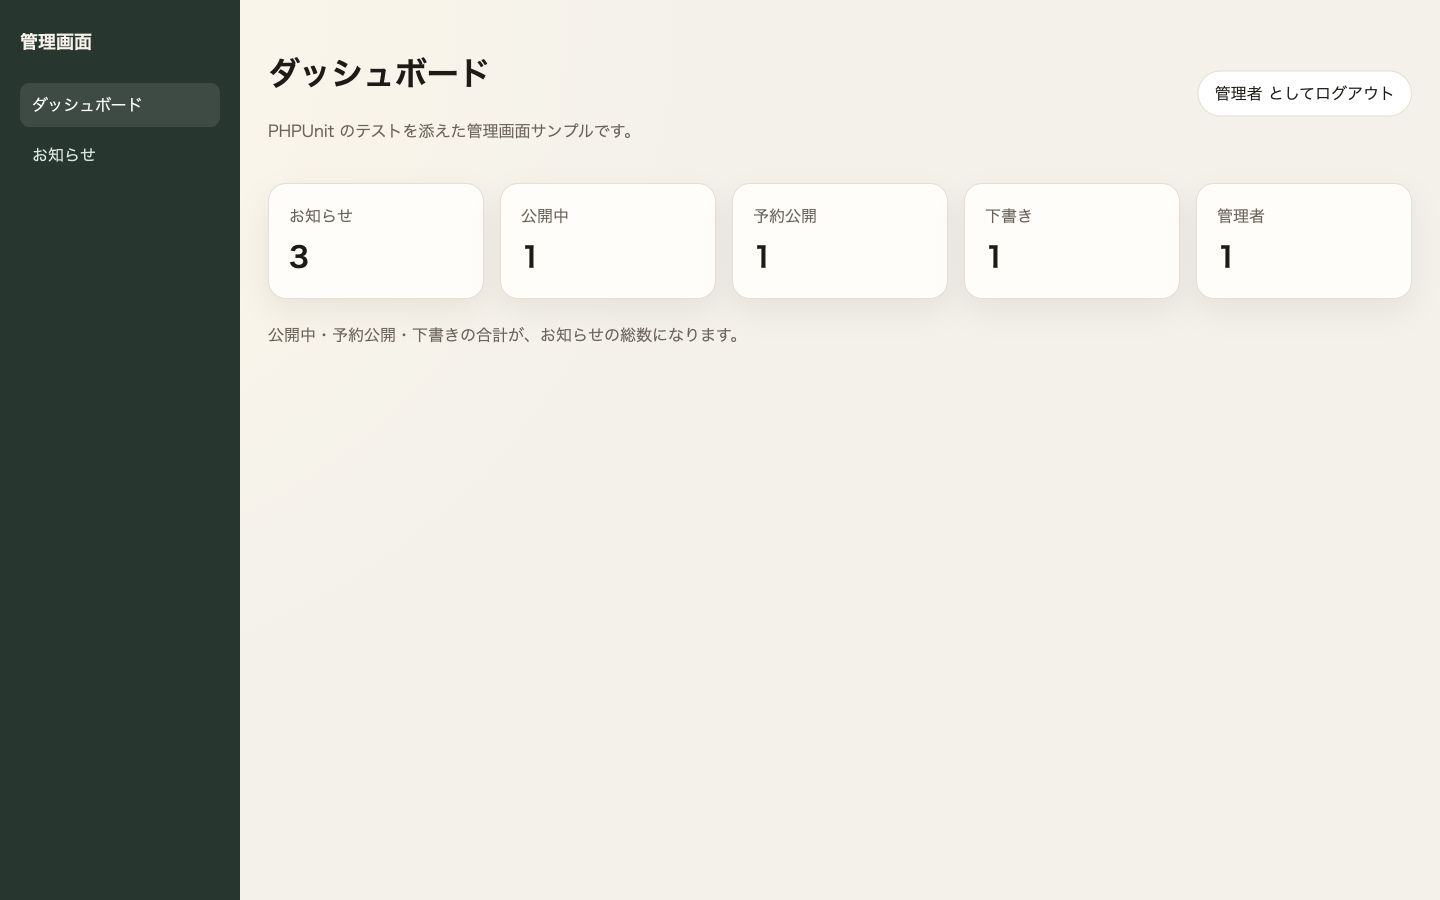
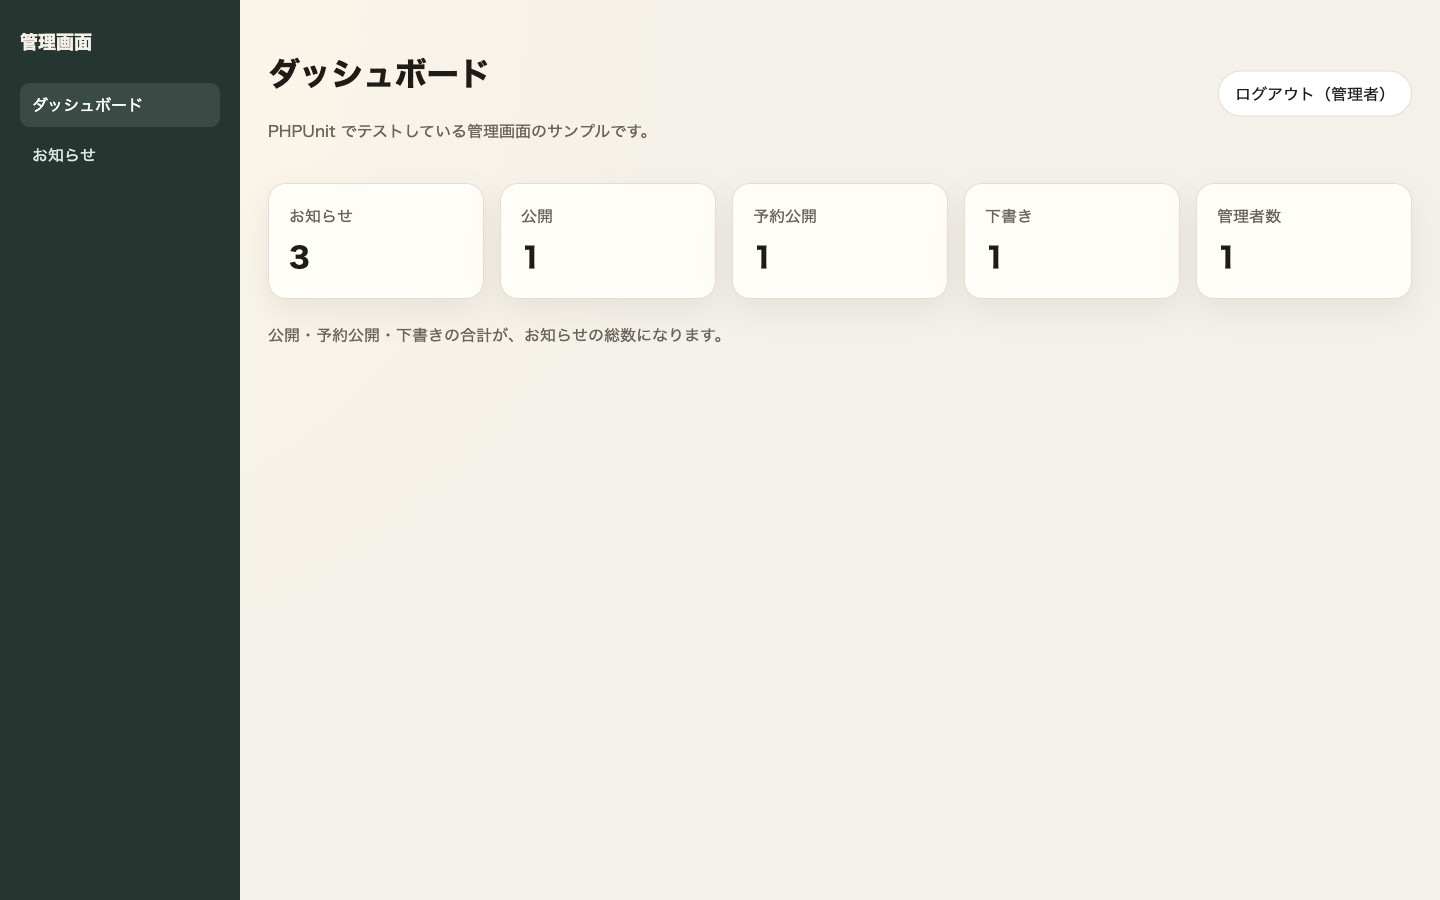
画面と README の日本語表現を見直す (#42)
- ログアウトのボタンを「ログアウト（名前）」にする
- 状態の呼び名を「公開」に統一し、ダッシュボードの「管理者」を「管理者数」にする
- 副題とシードの本文を「PHPUnit でテストしている管理画面のサンプルです。」にする
- README の表現（フィルター・ページ送りなど）を揃え、テスト数を更新する
- 管理画面のスクリーンショットを撮り直す

Closes #41

diff --git a/tests/Feature/DashboardTest.php b/tests/Feature/DashboardTest.php
@@ -11,6 +11,16 @@ class DashboardTest extends TestCase
 {
     use RefreshDatabase;
 
+    public function test_admin_layout_shows_who_is_logged_in_on_the_logout_button(): void
+    {
+        $admin = User::factory()->admin()->create(['name' => '山田 花子']);
+
+        $this->actingAs($admin)
+            ->get(route('admin.dashboard'))
+            ->assertOk()
+            ->assertSee('ログアウト（山田 花子）');
+    }
+
     public function test_admin_can_view_dashboard_counts(): void
     {
         $admin = User::factory()->admin()->create();
@@ -30,10 +40,10 @@ class DashboardTest extends TestCase
             ->assertViewHas('adminCount', 1)
             ->assertSeeInOrder([
                 'お知らせ', '<strong>4</strong>',
-                '公開中', '<strong>1</strong>',
+                '公開', '<strong>1</strong>',
                 '予約公開', '<strong>1</strong>',
                 '下書き', '<strong>2</strong>',
-                '管理者', '<strong>1</strong>',
+                '管理者数', '<strong>1</strong>',
             ], escape: false);
     }
 
@@ -52,7 +62,7 @@ class DashboardTest extends TestCase
             ->assertViewHas('draftCount', 0)
             ->assertSeeInOrder([
                 'お知らせ', '<strong>1</strong>',
-                '公開中', '<strong>1</strong>',
+                '公開', '<strong>1</strong>',
                 '予約公開', '<strong>0</strong>',
                 '下書き', '<strong>0</strong>',
             ], escape: false);

diff --git a/resources/views/admin/dashboard.blade.php b/resources/views/admin/dashboard.blade.php
@@ -9,7 +9,7 @@
             <strong>{{ $noticeCount }}</strong>
         </section>
         <section class="panel stat">
-            <span class="muted">公開中</span>
+            <span class="muted">公開</span>
             <strong>{{ $publishedCount }}</strong>
         </section>
         <section class="panel stat">
@@ -21,10 +21,10 @@
             <strong>{{ $draftCount }}</strong>
         </section>
         <section class="panel stat">
-            <span class="muted">管理者</span>
+            <span class="muted">管理者数</span>
             <strong>{{ $adminCount }}</strong>
         </section>
     </div>
 
-    <p class="muted">公開中・予約公開・下書きの合計が、お知らせの総数になります。</p>
+    <p class="muted">公開・予約公開・下書きの合計が、お知らせの総数になります。</p>
 @endsection

diff --git a/resources/views/layouts/admin.blade.php b/resources/views/layouts/admin.blade.php
@@ -19,11 +19,11 @@
         <div class="topbar">
             <div>
                 <h1>@yield('title', '管理画面')</h1>
-                <p class="muted">PHPUnit のテストを添えた管理画面サンプルです。</p>
+                <p class="muted">PHPUnit でテストしている管理画面のサンプルです。</p>
             </div>
             <form method="POST" action="{{ route('logout') }}">
                 @csrf
-                <button class="btn secondary" type="submit">{{ auth()->user()->name }} としてログアウト</button>
+                <button class="btn secondary" type="submit">ログアウト（{{ auth()->user()->name }}）</button>
             </form>
         </div>
         @if (session('status'))

diff --git a/tests/Feature/PublicNoticeTest.php b/tests/Feature/PublicNoticeTest.php
@@ -191,13 +191,13 @@ class PublicNoticeTest extends TestCase
             ->assertOk()
             ->assertDontSee('管理画面')
             ->assertDontSee('ダッシュボード')
-            ->assertDontSee('としてログアウト');
+            ->assertDontSee('ログアウト（');
 
         $this->get(route('notices.show', $notice))
             ->assertOk()
             ->assertDontSee('管理画面')
             ->assertDontSee('ダッシュボード')
-            ->assertDontSee('としてログアウト');
+            ->assertDontSee('ログアウト（');
     }
 
     public function test_logged_in_admin_can_also_view_the_public_pages(): void

diff --git a/database/seeders/DatabaseSeeder.php b/database/seeders/DatabaseSeeder.php
@@ -28,7 +28,7 @@ class DatabaseSeeder extends Seeder
 
         Notice::factory()->for($admin)->create([
             'title' => '管理画面の使い方',
-            'body' => 'ログイン後、お知らせの作成・編集・削除ができます。PHPUnit のテストを添えた管理画面サンプルです。',
+            'body' => 'ログイン後、お知らせの作成・編集・削除ができます。PHPUnit でテストしている管理画面のサンプルです。',
             'published_at' => now(),
         ]);
 

diff --git a/tests/Feature/NoticeSearchTest.php b/tests/Feature/NoticeSearchTest.php
@@ -497,7 +497,7 @@ class NoticeSearchTest extends TestCase
             ->assertOk()
             ->assertDontSee('管理画面')
             ->assertDontSee('ダッシュボード')
-            ->assertDontSee('としてログアウト')
+            ->assertDontSee('ログアウト（')
             // 公開側に下書き・予約公開という語を出さない（状態のセレクトは置かない）
             ->assertDontSee('下書き')
             ->assertDontSee('予約公開');

diff --git a/docs/testing.md b/docs/testing.md
@@ -55,7 +55,7 @@ php artisan test --filter=test_admin_can_create_a_published_notice
 | `NoticeManagementTest.php` | CRUD、予約公開、検証、作成者記録 |
 | `NoticeTrashTest.php` | ゴミ箱、復元、完全削除、権限 |
 | `NoticeAuthorizationTest.php` | 各操作がPolicyを通ること |
-| `NoticeSearchTest.php` | 検索、状態、件数、ページャ、公開範囲 |
+| `NoticeSearchTest.php` | 検索、状態、件数、ページ送り、公開範囲 |
 | `PublicNoticeTest.php` | 公開一覧・詳細、404、本文エスケープ |
 
 ## Unit tests

diff --git a/README.en.md b/README.en.md
@@ -29,7 +29,7 @@ See the [architecture overview](docs/architecture.md), [domain model](docs/domai
 
 | PHPUnit | Static analysis | PHP matrix |
 | --- | --- | --- |
-| 233 tests / 931 assertions | Larastan level 10 (test code included) | 8.4 / 8.5 / 8.6 |
+| 234 tests / 933 assertions | Larastan level 10 (test code included) | 8.4 / 8.5 / 8.6 |
 
 Tests run in a randomized order, and risky tests, warnings, and deprecations all fail the build. See the [testing strategy](docs/testing.md) for the details.
 

diff --git a/docs/search-and-filtering.md b/docs/search-and-filtering.md
@@ -12,7 +12,7 @@
 
 - 前後の空白を除去し、空文字は検索条件にしません。
 - 不明な`status`は422にせず無視します。GETの絞り込みは命令ではなく表示状態だからです。
-- ページャは`withQueryString()`で検索条件を維持します。
+- ページ送りは`withQueryString()`で検索条件を維持します。
 - 0件と未検索状態を異なる文言で表示します。
 
 ## クエリスコープ
